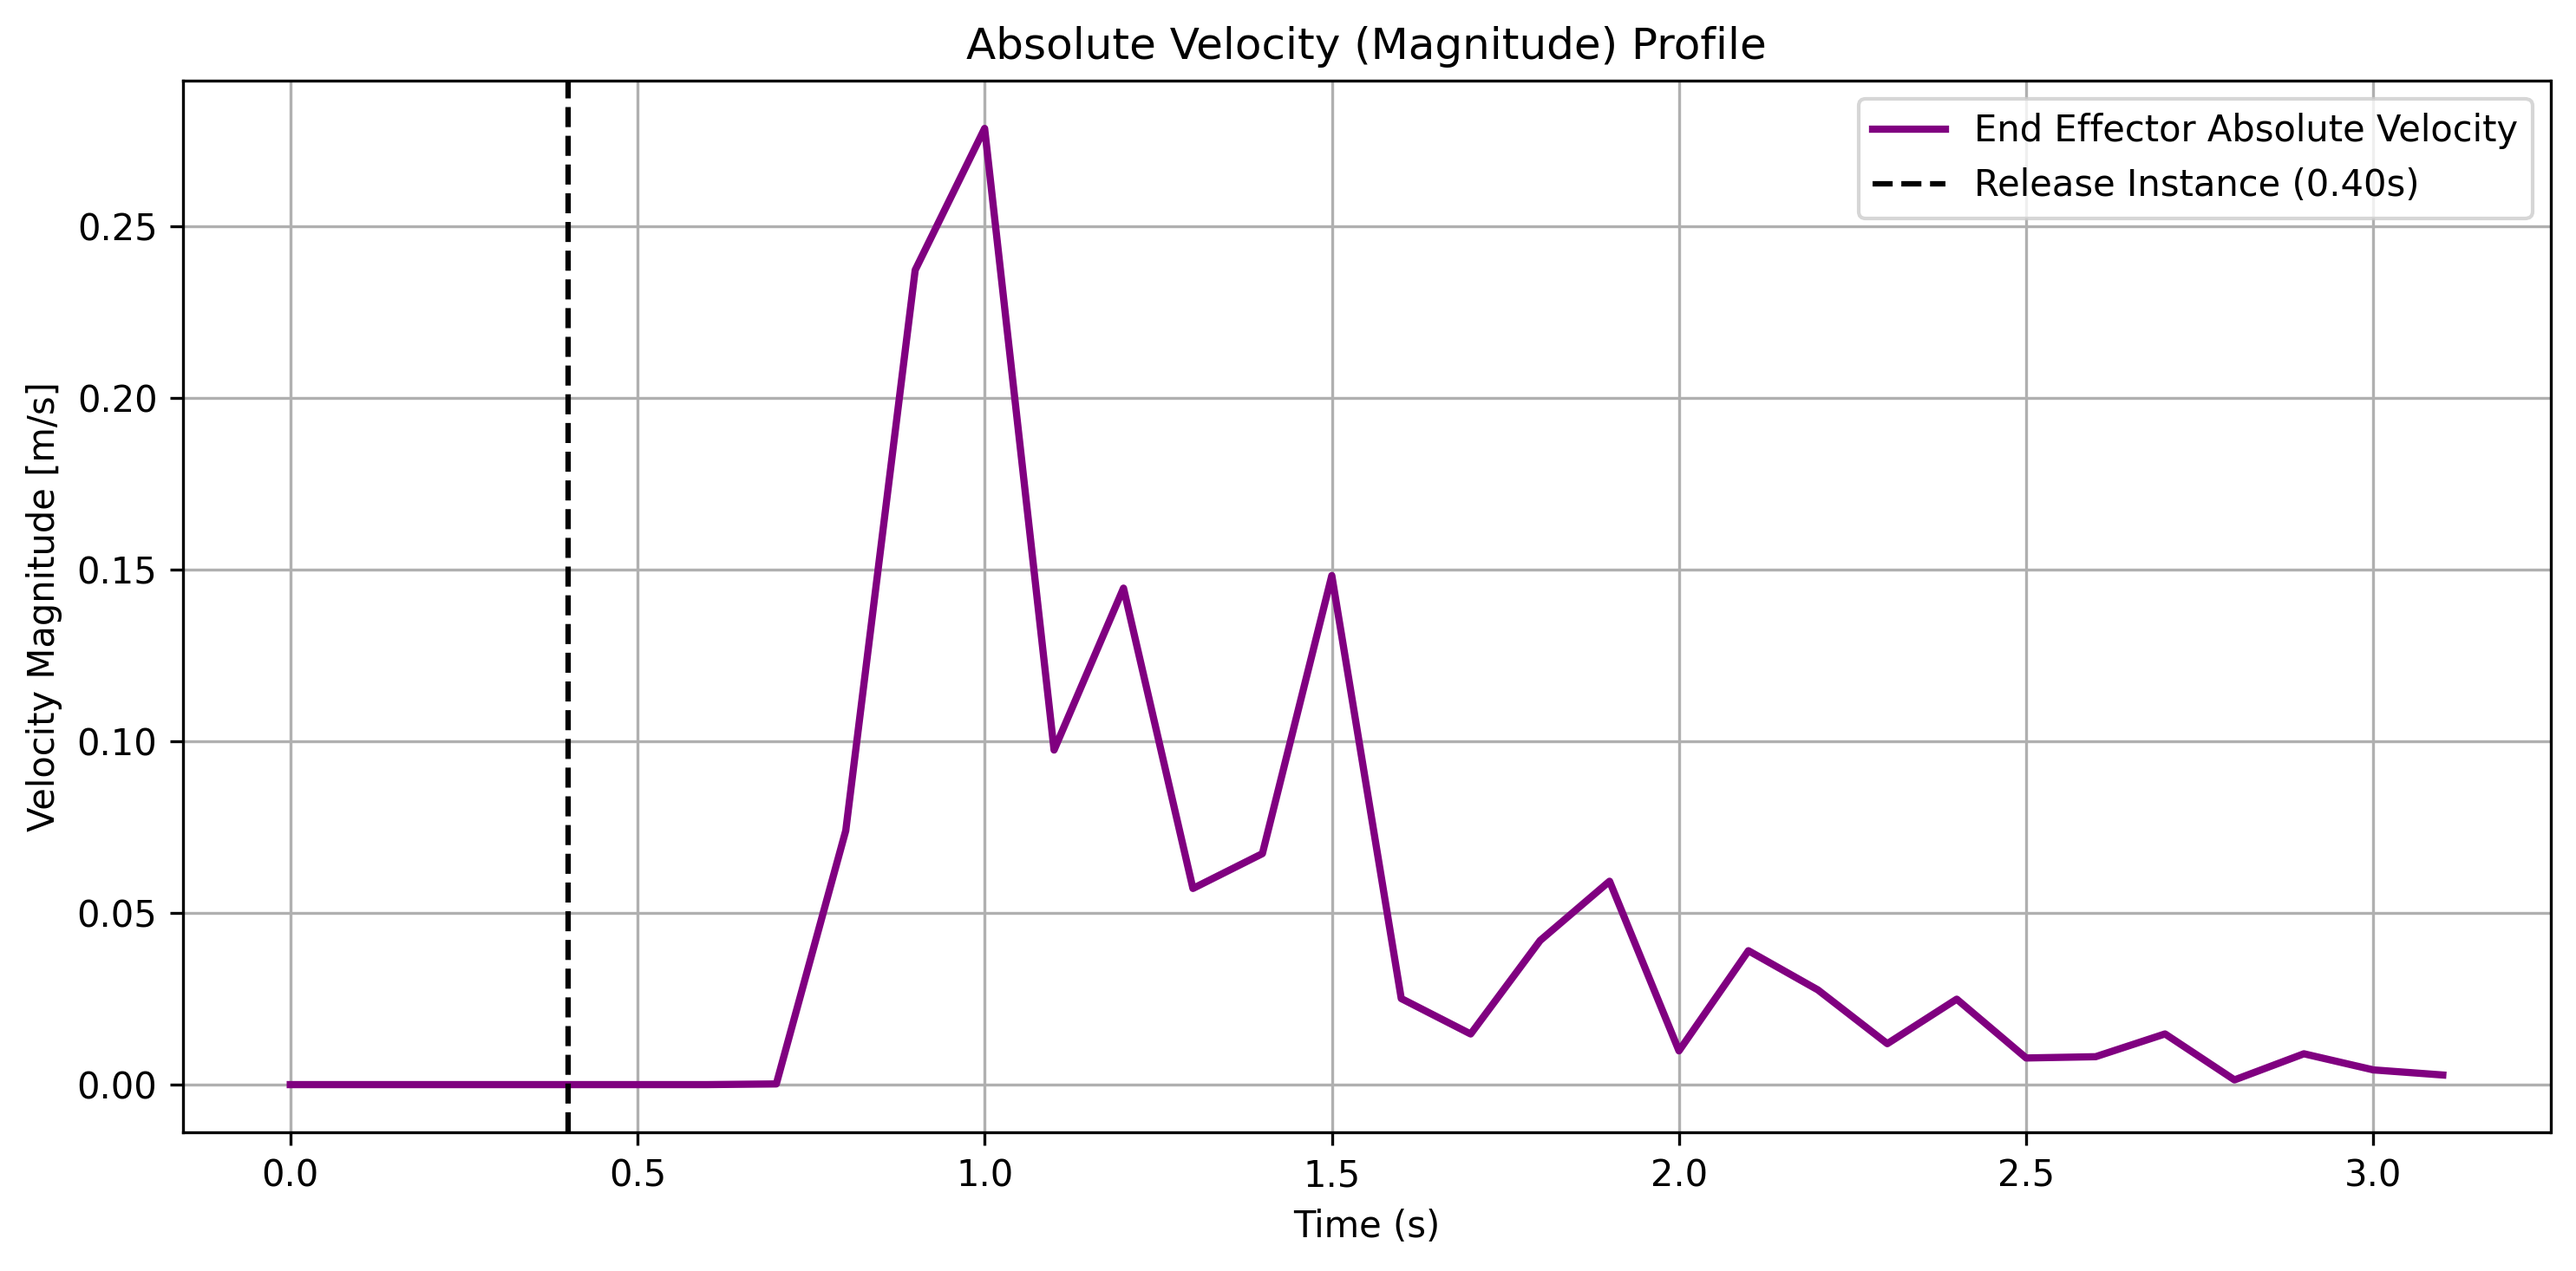
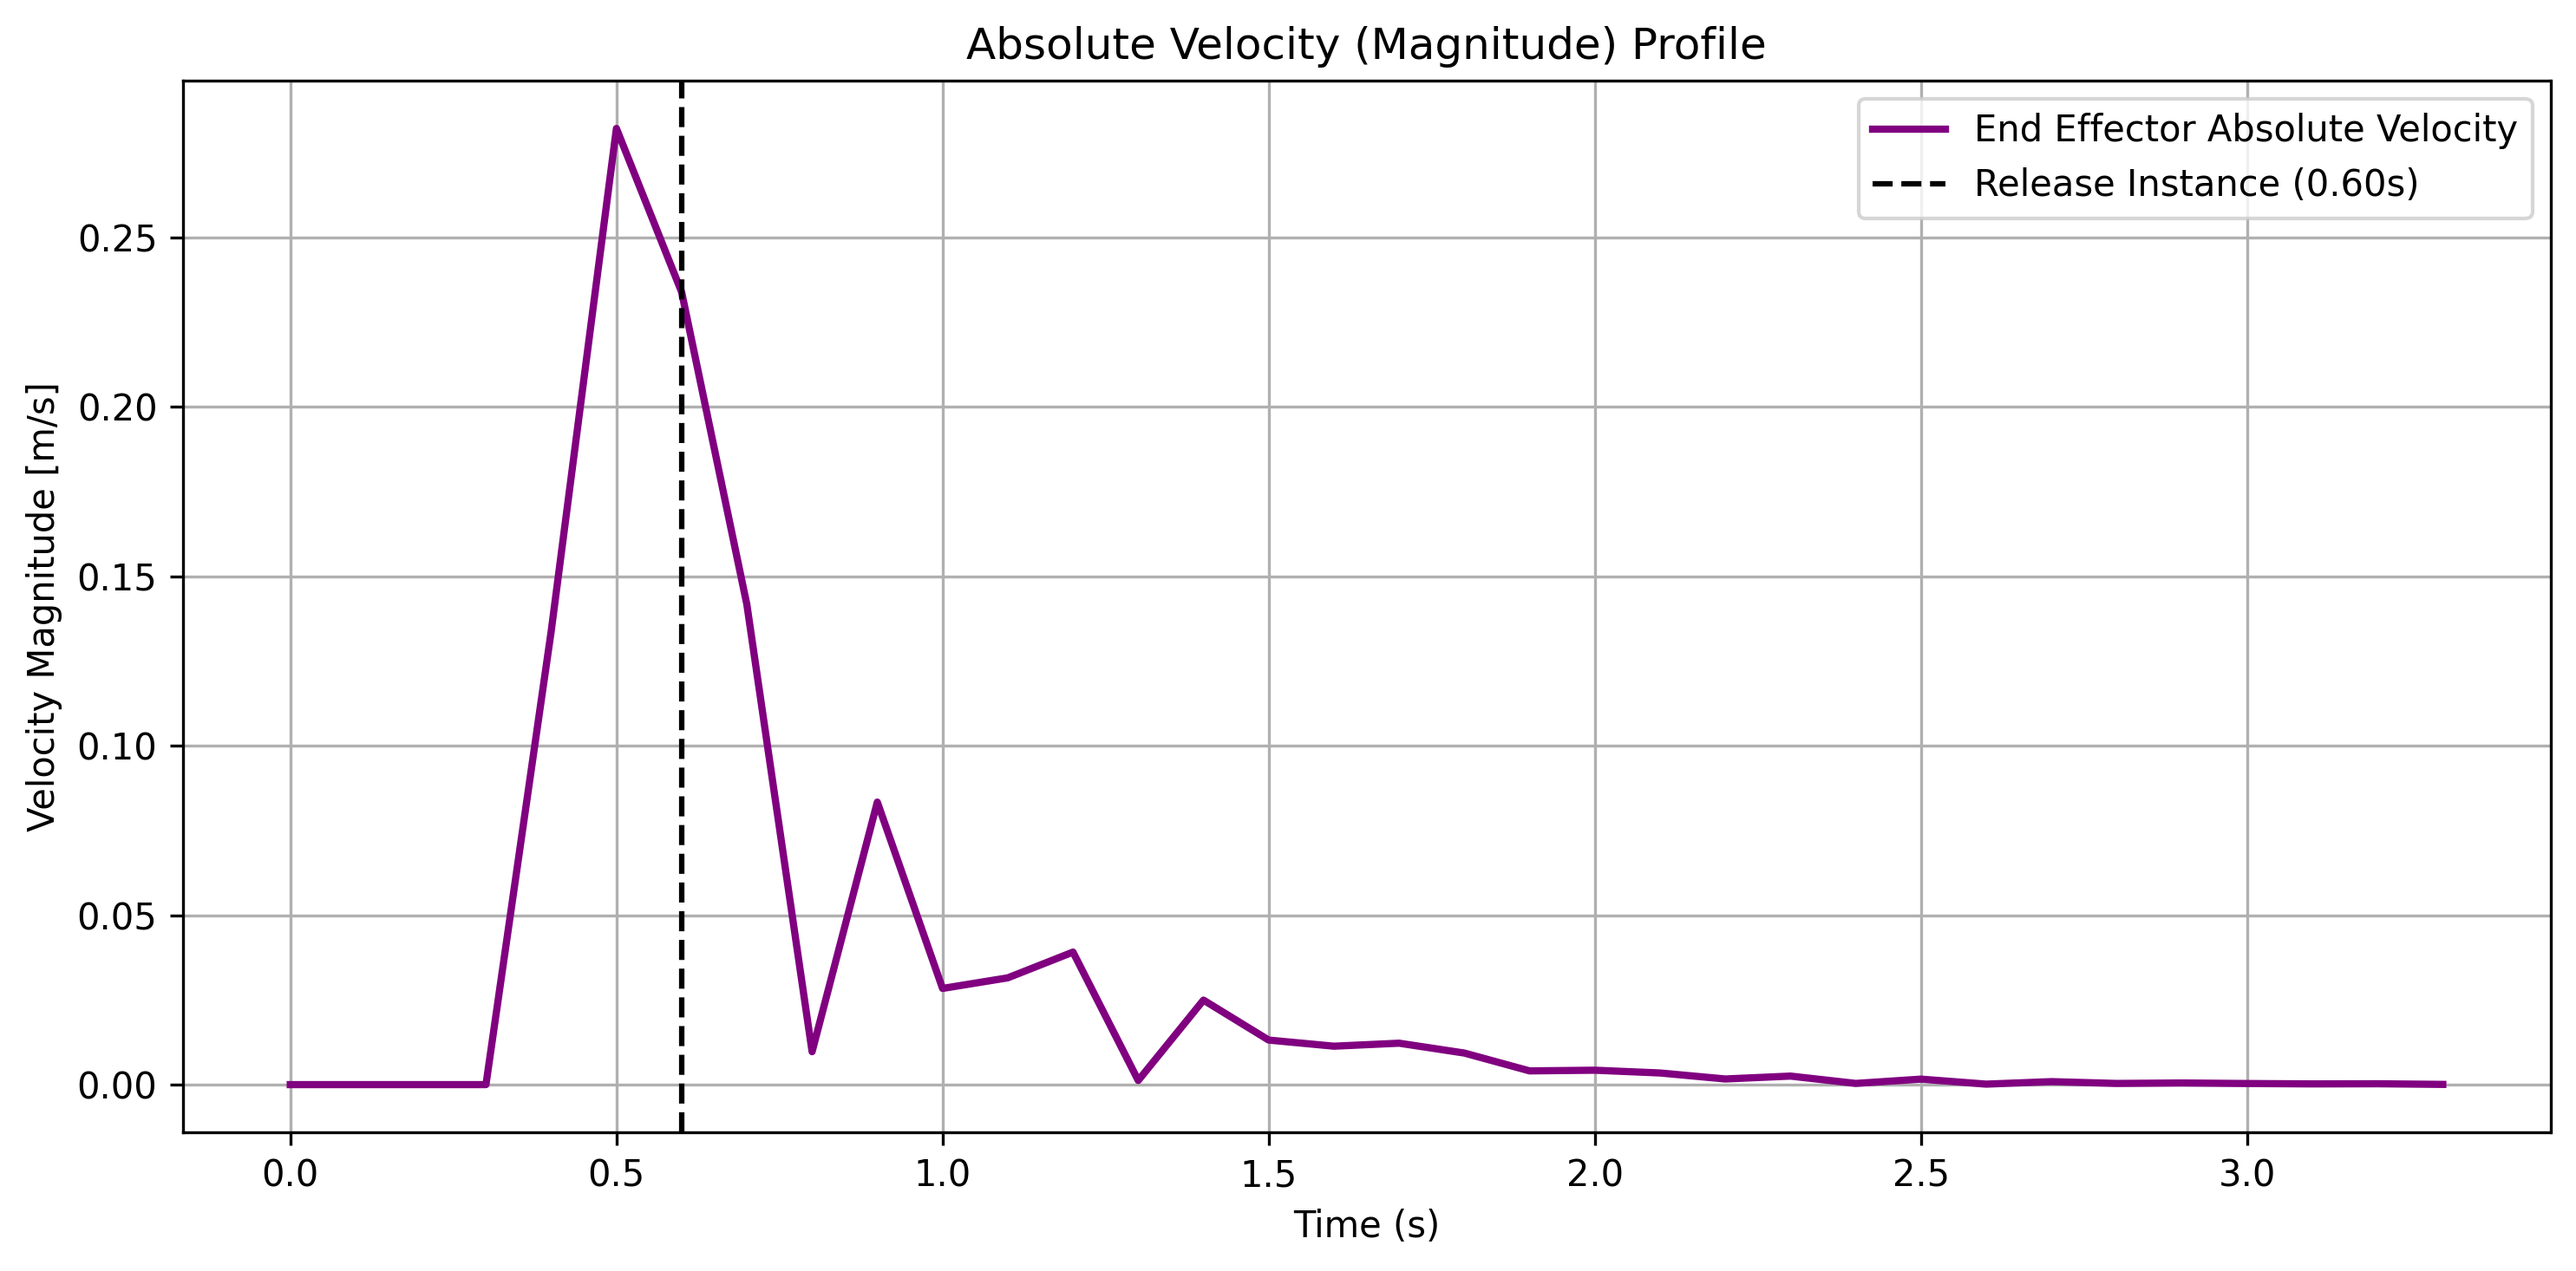
fixed bugs

diff --git a/scripts/test.py b/scripts/test.py
@@ -519,7 +519,20 @@ x_data = ros_sim_logs[:, mid_x_idx_ros:]
 
 # calculating the velocties 
 diff = np.diff(x_data, axis=0) 
-velocities = np.vstack([np.zeros((1, n_states)), diff / dt])
+velocities = np.vstack([np.zeros((1, n_states)), diff / dt]) 
+
+# predicting the landing positions 
+delta_z = x_data[:, -1] - z_g 
+sqrt_term = velocities[:,-1]**2 + (2 * g * delta_z)
+t_flight = (velocities[:,-1] + np.sqrt(sqrt_term)) / g 
+x_landing = x_data[:,ee_x_idx] + velocities[:,ee_x_idx] * t_flight
+y_landing = x_data[:,ee_y_idx] + velocities[:,ee_y_idx] * t_flight 
+
+# final landing based on the release time 
+idx = release_idx + max_lag + 1
+act_landing_x = x_landing[idx] 
+act_landing_y = y_landing[idx]
+final_land_pos = np.array([act_landing_x, act_landing_y])
 
 # Time vectors for plotting
 time_steps = np.arange(len(ros_sim_logs)) * dt
@@ -536,7 +549,6 @@ plt.figure(figsize=(10, 5))
 plt.plot(time_inputs, u_data[:, 0], label='Actuator 1', linewidth=2)
 plt.plot(time_inputs, u_data[:, 1], label='Actuator 2', linewidth=2)
 plt.plot(time_inputs, u_data[:, 2], label='Actuator 3', linewidth=2)
-'''
 # Add vertical line for release time
 # Note: release_idx corresponds to preds, we need to shift it for inputs which has lag padding
 max_lag = max(lag_input, lag_state)
@@ -544,7 +556,6 @@ release_time_plot_u = (release_idx + max_lag) * dt # IN THE U DOMAIN
 release_time_plot = (release_idx + max_lag +1) * dt # IN THE X DOMAIN
 plt.axvline(x=release_time_plot_u, color='k', linestyle='--', label=f'Actuator Input Corresponding to Release ({release_time_plot_u:.2f}s)')
 plt.axvline(x=release_time_plot, color='k', linestyle='--', label=f'Release Instance ({release_time_plot:.2f}s)')
-'''
 plt.title('Optimal Input Profiles')
 plt.xlabel('Time (s)')
 plt.ylabel('Actuation Input')
@@ -563,9 +574,9 @@ plt.plot(x_data[0, ee_x_idx], x_data[0, ee_y_idx], 'go', label='Start')
 # Mark end 
 plt.plot(x_data[-1, ee_x_idx], x_data[-1, ee_y_idx], 'ko', label='End') 
 # Mark release point
-#plt.plot(x_data[release_idx, ee_x_idx], x_data[release_idx, ee_y_idx], 'ro', label='Release Point')
+plt.plot(x_data[release_idx + max_lag + 1, ee_x_idx], x_data[release_idx + max_lag + 1, ee_y_idx], 'ro', label='Release Point')
 # Mark landing point and desired landing point 
-#plt.plot(final_land_pos[0], final_land_pos[1], 'rx', label='Landing Point')
+plt.plot(final_land_pos[0], final_land_pos[1], 'rx', label='Landing Point')
 #plt.plot(des_land_pos[0], des_land_pos[1], 'kx', label='Desired Landing Point')
 plt.title('End Effector Trajectory (X-Y)')
 plt.xlabel('X Position (m)')
@@ -582,7 +593,7 @@ ax.set_aspect('equal', adjustable='box')  # optional: square scaling
 plt.tight_layout() # adjust padding so labels and titles dont get clipped in the saved file 
 plt.savefig(os.path.join(sim_result_path, plot_name), dpi=300, bbox_inches="tight")
 plt.close() 
-'''
+
 # Plot 3: Landing Targets
 plot_name = "Landing_sim.png"
 plt.figure(figsize=(8, 8))
@@ -607,7 +618,7 @@ plt.grid(True)
 plt.tight_layout() # adjust padding so labels and titles dont get clipped in the saved file 
 plt.savefig(os.path.join(sim_result_path, plot_name), dpi=300, bbox_inches="tight")
 plt.close()
-'''
+
 # plot 4: Velocity profile 
 plot_name = "vel_profile_sim.png"
 plt.figure(figsize=(10, 5))
@@ -616,10 +627,8 @@ plt.plot(time_steps, velocities[:, ee_y_idx], label='End Effector Y Velocity', l
 plt.plot(time_steps, velocities[:, ee_z_idx], label='End Effector Z velocity', linewidth=2)
 # Add vertical line for release time
 # Note: release_idx corresponds to preds, we need to shift it for inputs which has lag padding
-'''
-release_time_plot_v = (release_idx) * dt 
+release_time_plot_v = (release_idx + max_lag + 1) * dt 
 plt.axvline(x=release_time_plot_v, color='k', linestyle='--', label=f'Release Instance ({release_time_plot_v:.2f}s)')
-'''
 plt.title('Velocity Profiles')
 plt.xlabel('Time (s)')
 plt.ylabel('Velocity [m/s]')
@@ -637,7 +646,7 @@ plt.figure(figsize=(10, 5))
 plt.plot(time_steps, v_abs, label='End Effector Absolute Velocity', linewidth=2, color='purple')
 # Add vertical line for release time
 # Note: release_idx corresponds to preds, we need to shift it for inputs which has lag padding
-release_time_plot_v = (release_idx) * dt 
+release_time_plot_v = (release_idx + max_lag + 1) * dt 
 plt.axvline(x=release_time_plot_v, color='k', linestyle='--', label=f'Release Instance ({release_time_plot_v:.2f}s)')
 plt.title('Absolute Velocity (Magnitude) Profile')
 plt.xlabel('Time (s)')

diff --git a/scripts/OLC_ROS.py b/scripts/OLC_ROS.py
@@ -35,16 +35,16 @@ class Optimal_Controller:
         self.pub_obj = rospy.Publisher(SOROSIM_TAG + "/actuators", Float64MultiArray, queue_size=QUEUE_SIZE) 
 
         # Wait for the publisher to establish connection with the logger 
-        start_wait = rospy.get_time()
-        rospy.loginfo("Waiting for subscribers (sorosimpp & logger) to connect...")
+        # start_wait = rospy.get_time()
+        # rospy.loginfo("Waiting for subscribers (sorosimpp & logger) to connect...")
         while self.pub_obj.get_num_connections() < 2:
             if rospy.is_shutdown():
                 return 
             # Optional: Timeout warning just in case something is wrong with the launch
-            if rospy.get_time() - start_wait > 5.0:
-                rospy.logwarn_throttle(2, f"Still waiting... Current connections: {self.pub_obj.get_num_connections()}/2")
+            # if rospy.get_time() - start_wait > 5.0:
+            #    rospy.logwarn_throttle(2, f"Still waiting... Current connections: {self.pub_obj.get_num_connections()}/2")
             rospy.sleep(0.1)
-        rospy.loginfo("Subscriber connected. Starting control loop.") 
+        # rospy.loginfo("Subscriber connected. Starting control loop.") 
 
         # Optional: Add a small sleep to ensure the logger's TF callback is also ready
         # rospy.sleep(0.5)
